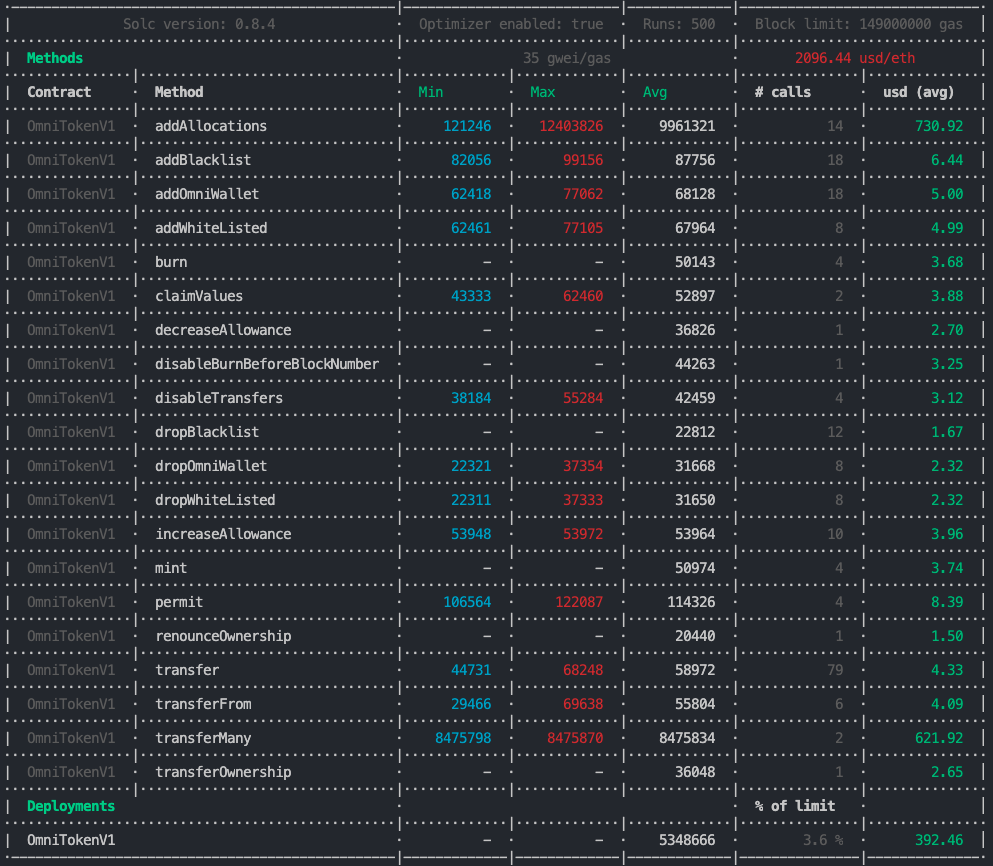
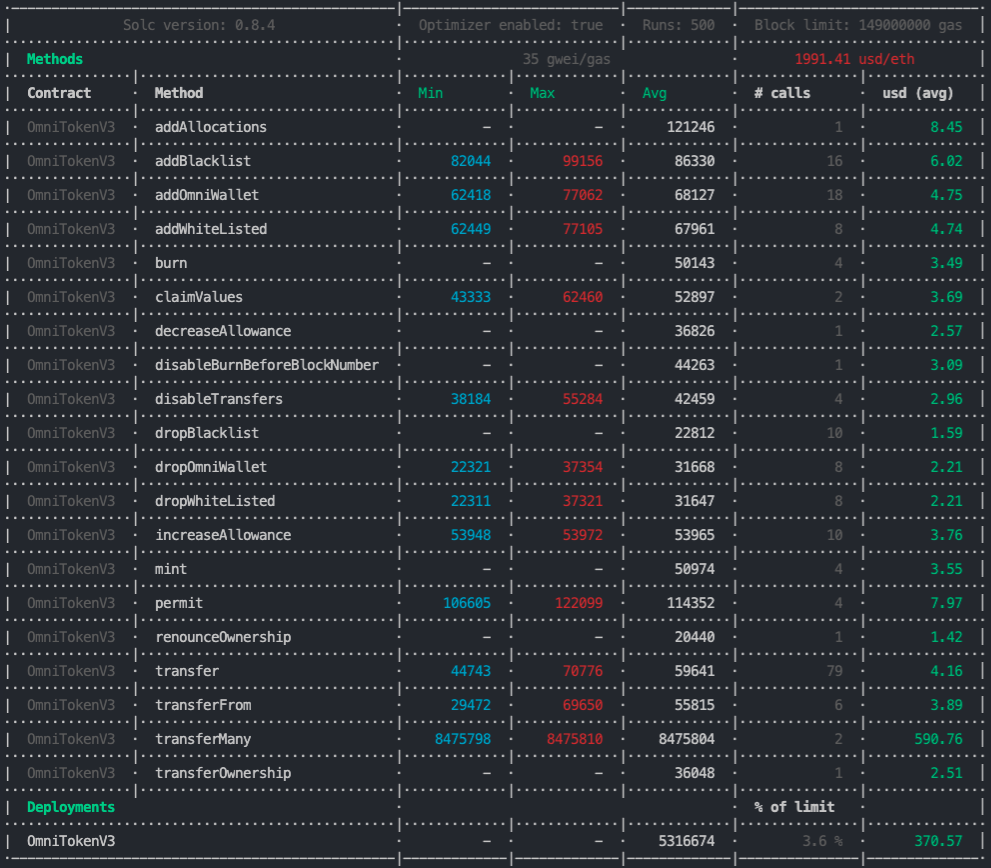
DOC: update the Readme, and Link of Certik Audit Report

diff --git a/test/ERC20.exceptvest.test.ts b/test/ERC20.exceptvest.test.ts
@@ -25,7 +25,7 @@ describe("ERC20 Full Test except Vesting", async () => {
 
 
 	it("1. Should return the Total Supply, Balance of the Owner, Name, Symbol and Decimals", async () => {
-		const OmniToken = await ethers.getContractFactory("OmniTokenV1");
+		const OmniToken = await ethers.getContractFactory("OmniTokenV3");
 		const omnitoken = await upgrades.deployProxy(OmniToken);
 
 		await omnitoken.deployed();
@@ -60,7 +60,7 @@ describe("ERC20 Full Test except Vesting", async () => {
 	//   ** t4. Verify Smart Contract Don't Have any Owner */
 
 	it("2. Should be Setting and Getting the OwnerShip of the Smart Contract", async () => {
-		const OmniToken = await ethers.getContractFactory("OmniTokenV1");
+		const OmniToken = await ethers.getContractFactory("OmniTokenV3");
 		const omnitoken = await upgrades.deployProxy(OmniToken);
 
 		await omnitoken.deployed();
@@ -99,7 +99,7 @@ describe("ERC20 Full Test except Vesting", async () => {
 
 
 	it("3. Should the right value for Balance Of, Transfer, Transfer From, and Approve, etc", async () => {
-		const OmniToken = await ethers.getContractFactory("OmniTokenV1");
+		const OmniToken = await ethers.getContractFactory("OmniTokenV3");
 		const omnitoken = await upgrades.deployProxy(OmniToken);
 
 		await omnitoken.deployed();
@@ -199,7 +199,7 @@ describe("ERC20 Full Test except Vesting", async () => {
 
 
 	it("4. Should the right value for add, drop or revert when i try to execute a transfer", async () => {
-		const OmniToken = await ethers.getContractFactory("OmniTokenV1");
+		const OmniToken = await ethers.getContractFactory("OmniTokenV3");
 		const omnitoken = await upgrades.deployProxy(OmniToken);
 
 		await omnitoken.deployed();
@@ -331,7 +331,7 @@ describe("ERC20 Full Test except Vesting", async () => {
 
 
 	it("5. Should the right value of the Circulating Supply for add, drop any wallets in the Array for OMNI Wallets", async () => {
-		const OmniToken = await ethers.getContractFactory("OmniTokenV1");
+		const OmniToken = await ethers.getContractFactory("OmniTokenV3");
 		const omnitoken = await upgrades.deployProxy(OmniToken);
 
 		await omnitoken.deployed();
@@ -454,7 +454,7 @@ describe("ERC20 Full Test except Vesting", async () => {
 	//   ** t2. Sending Token ERC20 and Clain with the Methods */
 
 	it("6. Should the right value of the Claim wallets in the Array for OMNI Wallets", async () => {
-		const OmniToken = await ethers.getContractFactory("OmniTokenV1");
+		const OmniToken = await ethers.getContractFactory("OmniTokenV3");
 		const Erc20Token = await ethers.getContractFactory("ERC20Token");
 		const omnitoken = await upgrades.deployProxy(OmniToken);
 		const erc20Token = await upgrades.deployProxy(Erc20Token);
@@ -513,7 +513,7 @@ describe("ERC20 Full Test except Vesting", async () => {
 
 
 	it("7.- Sending to TransferMany Methods, and Verify the Tokens into the Wallets", async () => {
-		const OmniToken = await ethers.getContractFactory("OmniTokenV1");
+		const OmniToken = await ethers.getContractFactory("OmniTokenV3");
 		const omnitoken = await upgrades.deployProxy(OmniToken);
 
 		await omnitoken.deployed();
@@ -595,7 +595,7 @@ describe("ERC20 Full Test except Vesting", async () => {
 
 	it("8.- Testing Method ERC20 Permit for gas less transaction and Verify the Approval process and Event", async () => {
 
-		const OmniToken = await ethers.getContractFactory("OmniTokenV1");
+		const OmniToken = await ethers.getContractFactory("OmniTokenV3");
 		const Erc20Token = await ethers.getContractFactory("ERC20Token");
 		const omnitoken = await upgrades.deployProxy(OmniToken);
 		const erc20Token = await upgrades.deployProxy(Erc20Token);
@@ -756,7 +756,7 @@ describe("ERC20 Full Test except Vesting", async () => {
 
 	it("9.- Testing Method ERC20 Permit for gas less transaction and Verify the Approval process and Event", async () => {
 
-		const OmniToken = await ethers.getContractFactory("OmniTokenV1");
+		const OmniToken = await ethers.getContractFactory("OmniTokenV3");
 		const Erc20Token = await ethers.getContractFactory("ERC20Token");
 		const omnitoken = await upgrades.deployProxy(OmniToken);
 		const erc20Token = await upgrades.deployProxy(Erc20Token);

diff --git a/test/ERC20.vest.test.ts b/test/ERC20.vest.test.ts
@@ -317,7 +317,7 @@ describe("ERC20 Only Vesting Test", async () => {
 			// ** Verify Allocation #1 Wallets day by day and unlocked Tokens
 			it("1.17.2.- Verify Daily Rate and Initial Iteration of Allocation #1, #2, #3, #4, #6 and #10 Beginning to TGE =============================================================", async () => {
 				// TGE Moment
-				console.log("Date for Token Generate Event: ", parseInt(TGE.add(4,'d').add(8, 'h').format('X')), TGE.format("dddd, MMMM Do YYYY, h:mm:ss a"));
+				console.log("Date for Token Generate Event: ", parseInt(TGE.add(6,'d').add(2, 'h').format('X')), TGE.format("dddd, MMMM Do YYYY, h:mm:ss a"));
 				await network.provider.send("evm_setNextBlockTimestamp", [parseInt(TGE.format('X'))]);
 				await network.provider.send("evm_mine", []);
 				let time = Math.floor((await ethers.provider.getBlock("latest")).timestamp);
@@ -376,7 +376,7 @@ describe("ERC20 Only Vesting Test", async () => {
 			it("1.18.1.- Call the AddAllocation Method for Allocation #4 and upload all Wallets of the Vesting Process in the Smart Contract and Verify have the right Values", async () => {
 				// Add Allocation #4, Public Sale
 				// 30 Days - 1 seconds after TGE
-				await network.provider.send("evm_setNextBlockTimestamp", [parseInt(TGE.add(10,'d').add(16,'h').format('X'))]);
+				await network.provider.send("evm_setNextBlockTimestamp", [parseInt(TGE.add(8,'d').add(22,'h').format('X'))]);
 				await network.provider.send("evm_mine", []);
 				let time = Math.floor((await ethers.provider.getBlock("latest")).timestamp);
 				console.log("Verify TimeStamp: ", time," Full Date: ", moment(time*1000).utc().format("dddd, MMMM Do YYYY, h:mm:ss a"));

diff --git a/scripts/deploy.ts b/scripts/deploy.ts
@@ -21,7 +21,7 @@ const main = async () => {
 
   // console.log("Accounts:", accounts.map((a) => a.address));
 
-  	const OmniToken = await ethers.getContractFactory("OmniTokenV1");
+  	const OmniToken = await ethers.getContractFactory("OmniTokenV3");
 	const Erc20Token = await ethers.getContractFactory("ERC20Token");
 	const omnitoken = await upgrades.deployProxy(OmniToken);
 	const erc20Token = await upgrades.deployProxy(Erc20Token);
@@ -44,6 +44,7 @@ const main = async () => {
 		};
 		const receipt = await estimatetx.wait();
 		console.log("Receipt Error: ", receipt);
+		console.log("ChainId: ", (await estimatetx.chainId).toString());
 	} catch (error) {
 		console.log("Type Error: ", JSON.stringify(error.name));
 		console.log("Code Error: ", JSON.stringify(error.code));

diff --git a/hardhat.config.ts b/hardhat.config.ts
@@ -120,7 +120,7 @@ task("accounts", "Prints the list of accounts", async (args, hre) => {
 		gasPrice: 35,
 		coinmarketcap: process.env.COINMARKETCAP_API_KEY,
 		maxMethodDiff: 10,
-		excludeContracts: ['ERC20Token.sol']
+		excludeContracts: ['ERC20Token.sol', 'OmniTokenV1.sol', 'OmniTokenV2.sol']
 	},
 	contractSizer: {
 		alphaSort: true,

diff --git a/README.md b/README.md
@@ -43,6 +43,13 @@ npx hardhat test
 - URL_MOONBEAM_TESTNET=https://rpc.testnet.moonbeam.network
 
 ---
+### Certik Audit Report
+
+---
+
+[Certik Audit Report, with last Review](https://www.certik.org/projects/omni)
+
+---
 ### Last ETH Gas Reporter
 
 ---
@@ -60,4 +67,4 @@ npx hardhat test
 
 ---
 
-# OMN-token
+# OMN-token v3
